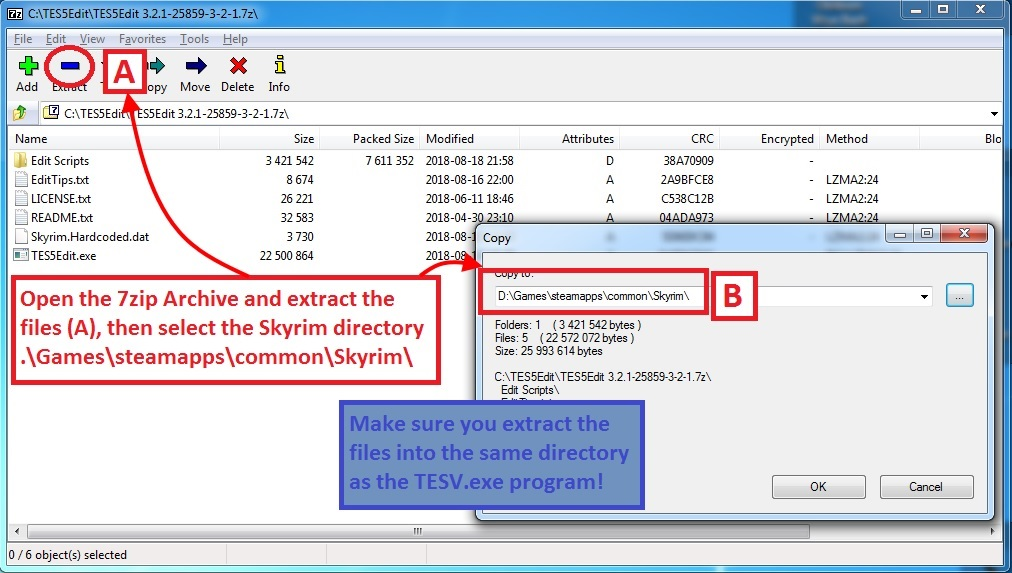
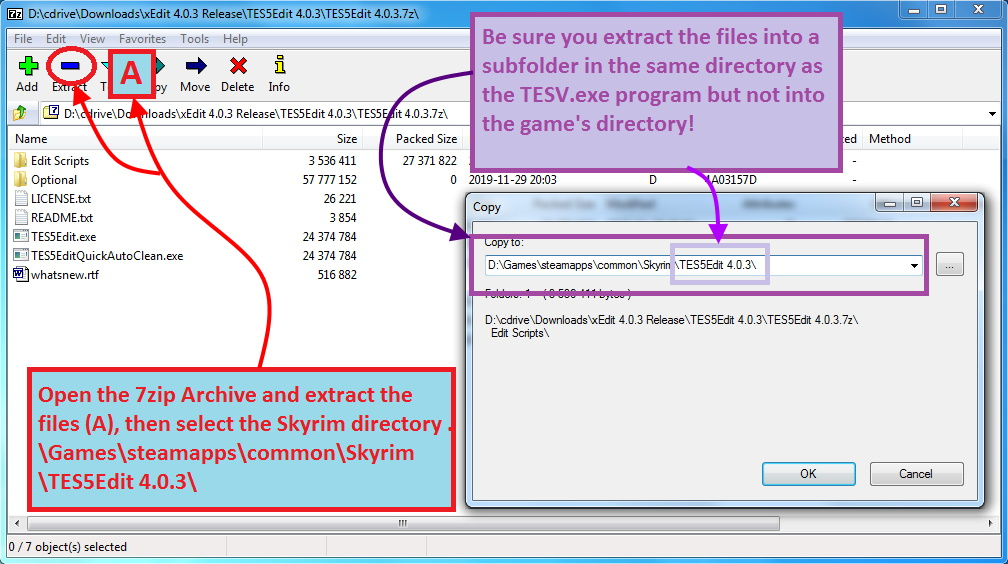
Updated two images in section 2

diff --git a/2-overview.html b/2-overview.html
@@ -77,12 +77,16 @@ title: xEdit Overview
                     <div>
                         <p>xEdit works on Windows XP, Vista, Windows 7, 8, and 10.  Other platforms or Windows simulators may or may not work and are not officially supported. xEdit is available for download from Nexus, one of the most outstanding sources for Bethesda content. Downloading from the <a href="https://www.nexusmods.com/skyrim/mods/25859">TES5Edit Nexus</a>.</p>
                         <div>
-                            <img src="img/image002.jpg">
+                            <figure class="image-caption">
+                                <img src="img/image002.jpg" alt="Sownload File"/>
+                            </figure>
                             <p>The following page will display from the TES5Edit Nexus site. You will need to first click on, "Files" to display the list of xEdit versions. Once loaded, check the Version number in the upper-right corner (B) to ensure you download the most current revision. Then click on that revision of xEdit in the Main Files section (C).</p>
                         </div>
                         <p>Once you download the program, you will need an archive extraction tool that can handle 7-Zip files (.7z), such as 7-Zip, which is available at: <a href="http://www.7-zip.org/">http://www.7-zip.org/</a></p>
                         <div>
-                            <p><img src="img/image004.jpg"></p>
+                            <figure class="image-caption">
+                                <img src="img/image004.jpg" alt="Extract Files"/>
+                            </figure>
                             <p>Once the archive is open, you will need to extract the TES5Edit files into the right place for it to function. That place is the Skyrim\ directory, where the TESV.exe program is installed. Do Not install into the Skyrim\Data directory or the program will not function correctly. Also refer to <a href="#s_2-2-3">2.2.3 Windows Vista and UAC Security</a>.</p>
                             <p>Technically you can run the xEdit exe from any location except the game's Data folder.</p>
                         </div>
@@ -141,8 +145,8 @@ title: xEdit Overview
                         <p>BOSS and LOOT will also sort mods if you are familiar with them.
                         <ul>
                             <li><a href="https://github.com/boss-developers/boss/releases/tag/v2.3.2">BOSS v2.3.2 by  deathssoul (latest version)</a></li>
-                            <li><a href="https://github.com/boss-developers/boss/releases/tag/v2.3.2">BOSS v2.3.0 by  WrinklyNinja (last version by this author)</a></li>
-                            <li><a href="https://github.com/boss-developers/boss/releases/tag/v2.3.2">LOOT v0.13.1 by  WrinklyNinja</a></li>
+                            <li><a href="https://github.com/boss-developers/boss/releases/tag/v2.3.0">BOSS v2.3.0 by  WrinklyNinja (last version by this author)</a></li>
+                            <li><a href="https://github.com/loot/loot/releases">LOOT v0.15.1 by  WrinklyNinja</a></li>
                         </ul>
                         </p>
                         <p><img src="img/module_select.jpg"></p>
@@ -163,7 +167,9 @@ title: xEdit Overview
                     <div>
                         <h4>From the Title Bar</h4>
                         <p>One way to select a theme is to Right Click the title bar and go to Theme. There are around 40 Themes to choose from. The one pictured in these docs is the Tablet Dark Theme.</p>
-                        <p><img src="img/Theme-Menu.jpg"></p>
+                        <figure class="image-caption">
+                            <img src="img/Theme-Menu.jpg" alt="Theme Menu"/>
+                        </figure>
                         <p>The requirements are Desktop Window Manager, Themes services enabled, Desktop Composition, and an Aero Theme selected.</p>
                         <p>Note: Your screen will be blank if you previously selected a Theme but disabled any of its requirements.</p>
                         <h4>From Options</h4>
@@ -184,8 +190,10 @@ title: xEdit Overview
                         <p><img src="img/verifygamecache.jpg"></p>
                         <p>This is what the error would look like from FNVEdit.</p>
                         <p><img src="img/error_part_1.jpg"></p>
-                        <p>After you click OK xEdit will finish loading and the messages tab will display the following.</p>
-                        <p><img src="img/error_part_2.jpg"></p>
+                        <p>After you click OK xEdit will finish loading and the messages tab will display the following message.</p>
+                        <figure class="image-caption">
+                            <img src="img/error_part_2.jpg" alt="module selection"/>
+                        </figure>
                         <p>If you moved the install it is recommended to move the files back to their original location or re-install the Game again. If you verified the game cache from Steam, run the game's official launcher. Below is an example of the Fallout 4 launcher.</p>
                         <p><img src="img/Fallout-4-game-launcher.jpg"></p>
                     </div>
@@ -210,7 +218,9 @@ title: xEdit Overview
                     <h3>2.3.1 Master/Plugin Selection View [FO3/FNV]</h3>
                     <div>
                         <div>
-                            <p><img src="img/image008.jpg"></p>
+                        <figure class="image-caption">
+                            <img src="img/image008.jpg" alt="module selection"/>
+                        </figure>
                             <p>The Master/Plugin Selection view is presented to you when xEdit is first launched and allows you to select/un-select the mods that you want xEdit to load. You can also Right-Click in open space to access more options, such as "Select All" or "Select None".</p>
                         </div>
                         <p>To change the load order of mods, close xEdit and open <a href="#links_fomm"><abbr title="Fallout Mod Manager">FOMM</abbr></a>. Change the load order as desired, close <abbr title="Fallout Mod Manager">FOMM</abbr> and re-open xEdit.</p>

diff --git a/_sass/jekyll-theme-cayman.scss b/_sass/jekyll-theme-cayman.scss
@@ -383,11 +383,12 @@ body {
   }
   figure.image-caption {
     @include full {
-      max-width: 40%;
+      max-width: 1044px;
+      height: auto;
       padding: 10px;
     }
     @include huge {
-      max-width: 40%;
+      max-width: 1024px;
       padding: 10px;
     }
     @include large {
